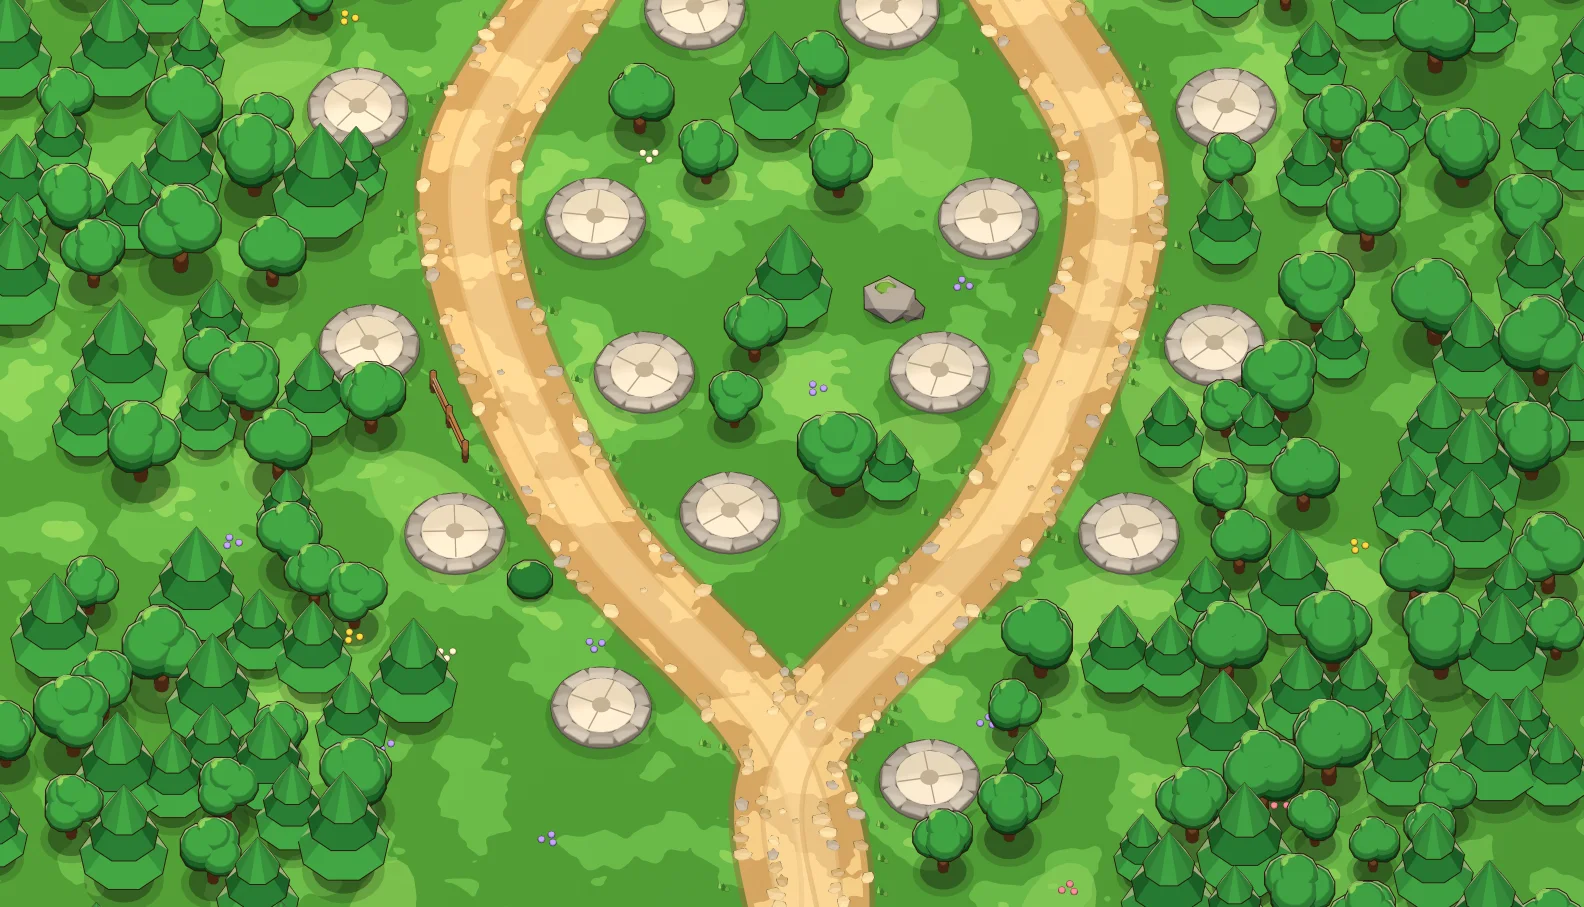
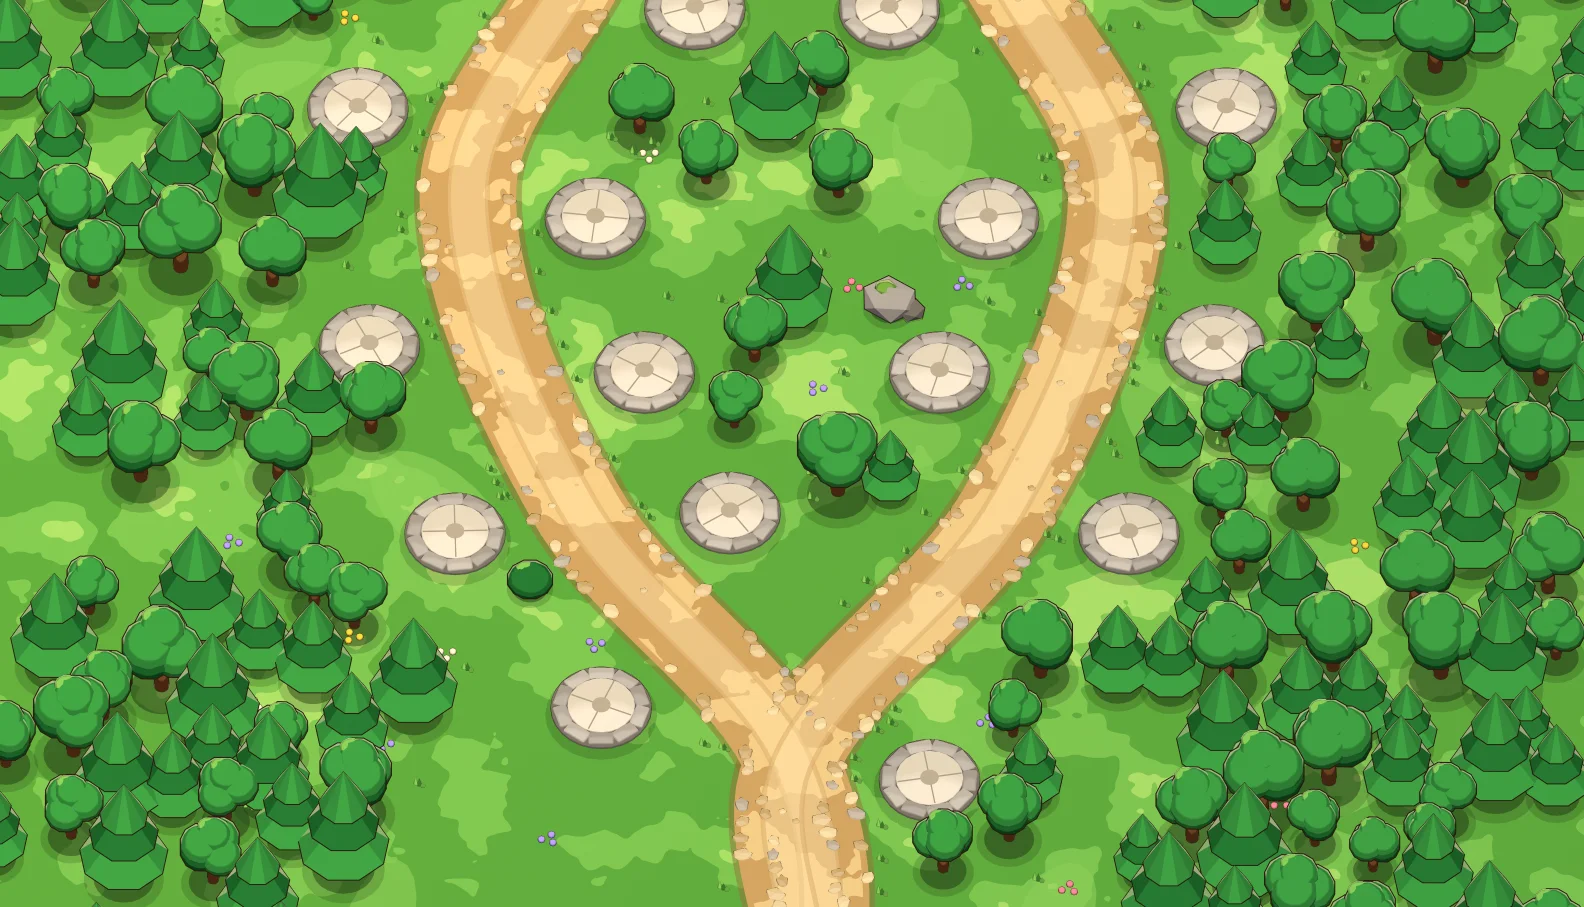
Bastion backdrops: tufts over the open meadow, fences only where they cross the screen, before/after phone shots

diff --git a/art/td/render_td.py b/art/td/render_td.py
@@ -317,12 +317,14 @@ def main():
         placed = []
         # Short fence runs along the road's outer verge where there is room.
         nf = 0
-        for ri, r in enumerate(roads[:1]):
-            for i in range(16, len(r) - 20, 15):
+        for ri, r in enumerate(roads):
+            for i in range(16 + ri * 5, len(r) - 20, 7):
                 x, y = r[i]
                 x2, y2 = r[i + 5]
                 dx, dy = x2 - x, y2 - y
                 l = math.hypot(dx, dy) or 1
+                if abs(dx) < abs(dy) * 0.8:  # a fence running up the screen reads as a single stick; keep to the crossings
+                    continue
                 for side in (1, -1):
                     off = RH + 0.5
                     ax, ay = x - dy / l * off * side, y + dx / l * off * side
@@ -362,8 +364,16 @@ def main():
                 tree(kinds[j % len(kinds)], x, y, s, j)
                 j += 1
         ntrees = j
+        # Grass tufts over the open meadow.
+        for n in range(int(Wm * Hm * 0.35)):
+            x, y = -0.5 + rnd(n, 61) * (Wm + 1), rnd(n, 62) * Hm
+            if not free(x, y, 0.1, 0.1):
+                continue
+            for j in range(3):
+                wk.cone(0.035, 0.12 + 0.03 * (j % 2), toon("grass_dk" if j % 2 else "grass_lt"), loc=B(x + 0.05 * (j - 1), y + 0.02 * j, 0.05),
+                        rot=(12 * (j - 1), 0, 0), seg=5, outline=0.004)
         # Rocks, bushes, flowers and fences in the open grass.
-        for n in range(int(Wm * Hm * 0.2)):
+        for n in range(int(Wm * Hm * 0.28)):
             x, y = -0.5 + rnd(n, 51) * (Wm + 1), rnd(n, 52) * Hm
             kind = rnd(n, 53)
             if kind < 0.3:
